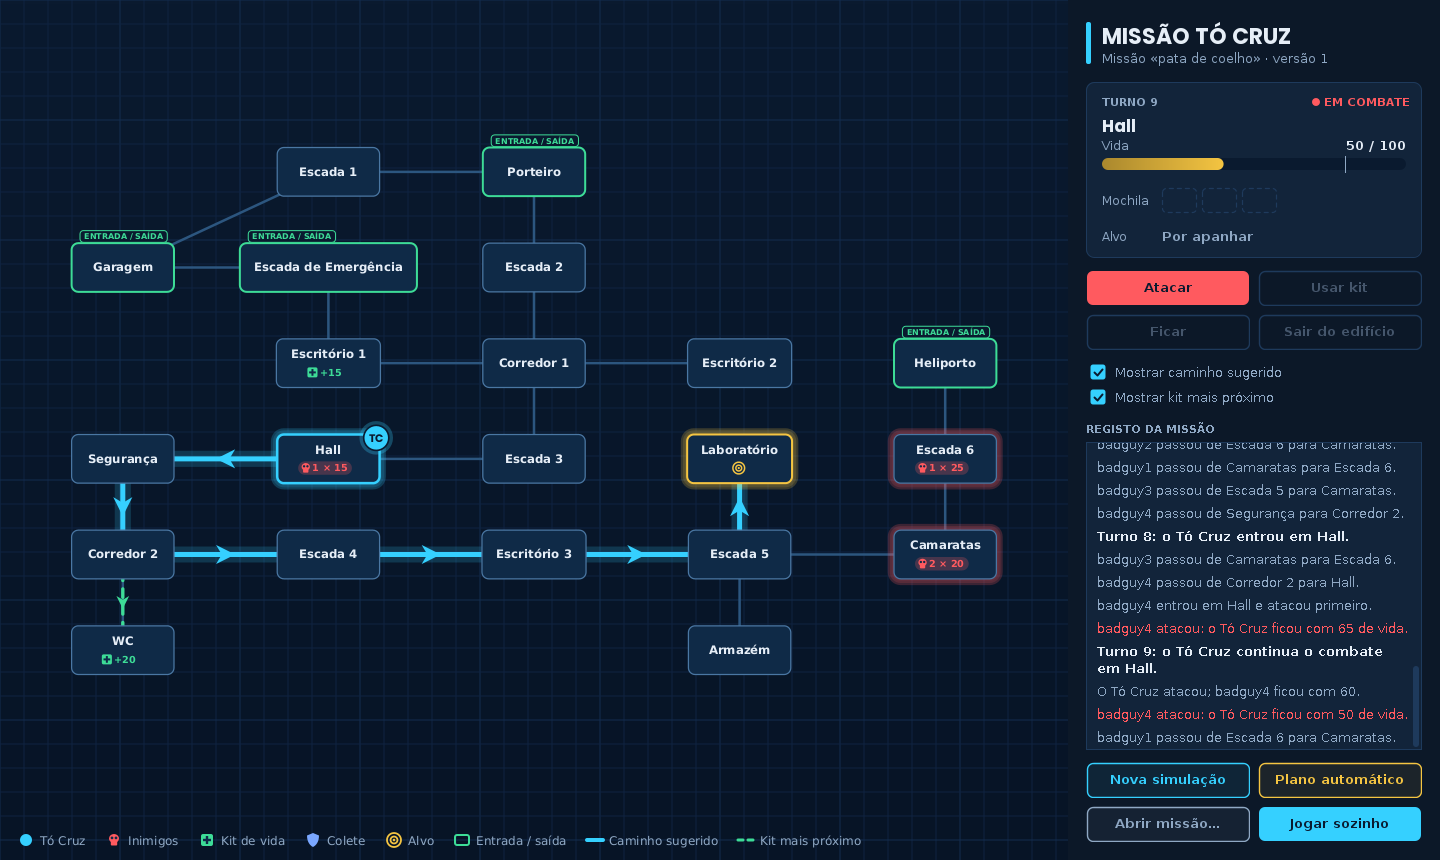
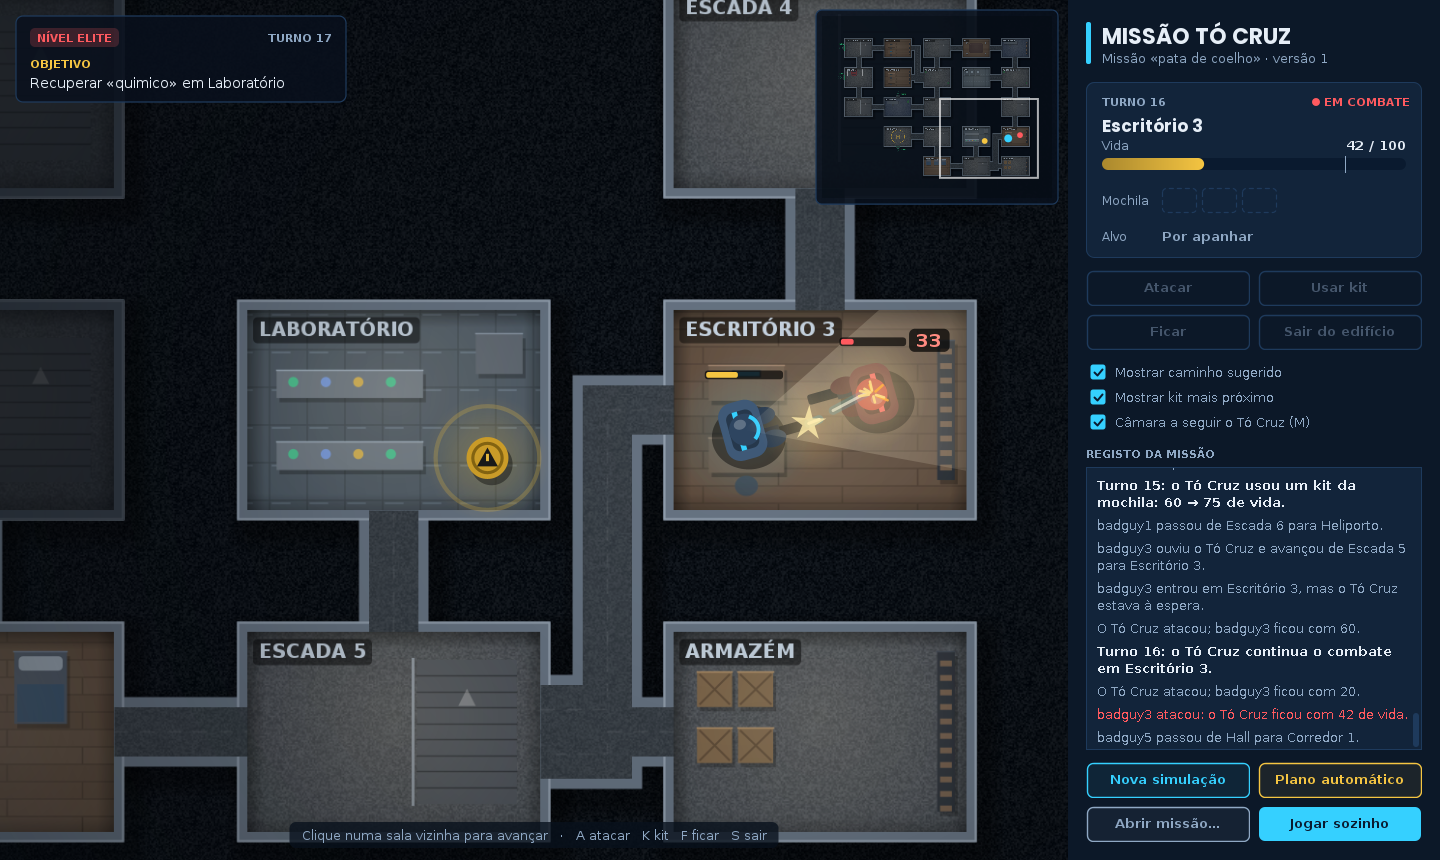
README: interface nova, níveis de dificuldade e regra do objetivo

diff --git a/README.md b/README.md
@@ -1,12 +1,12 @@
 # Missão Tó Cruz – simulador de incursões
 
-Simulador em Java onde o agente Tó Cruz entra num edifício controlado por criminosos, tem de chegar ao alvo (resgatar um refém, recuperar um objeto, desarmar uma arma) e sair com vida. O edifício é um grafo pesado e as decisões do modo automático são tomadas com o algoritmo de Dijkstra sobre esse grafo. Pode jogar-se na consola ou numa interface gráfica que mostra a planta do edifício.
+Simulador em Java onde o agente Tó Cruz entra num edifício controlado por criminosos, tem de chegar ao alvo (resgatar um refém, recuperar um objeto, desarmar uma arma) e sair com vida. O edifício é um grafo pesado e as decisões do modo automático são tomadas com o algoritmo de Dijkstra sobre esse grafo. Pode jogar-se na consola ou numa interface gráfica: uma planta tática vista de cima, com animações, três níveis de dificuldade e inimigos que perseguem o jogador.
 
 Trabalho prático de grupo de **Estruturas de Dados** (2.º ano da Licenciatura em Engenharia Informática, ESTG – Politécnico do Porto, 2024/25), revisto em 2026.
 
 [![CI](https://github.com/fmpoliveira05-jpg/missao-to-cruz/actions/workflows/ci.yml/badge.svg)](https://github.com/fmpoliveira05-jpg/missao-to-cruz/actions/workflows/ci.yml)
 
-![Interface gráfica: o Tó Cruz em combate no Hall, com o caminho mais seguro até ao laboratório a azul](docs/interface.png)
+![Interface gráfica, nível Elite: o Tó Cruz dispara sobre um inimigo no Escritório 3; ao lado, no laboratório, está o objetivo](docs/interface.png)
 
 ## Equipa
 
@@ -17,7 +17,7 @@ Trabalho prático de grupo de **Estruturas de Dados** (2.º ano da Licenciatura 
 
 O histórico de *commits* original foi mantido, por isso o contributo de cada um continua visível no separador *Commits*.
 
-**O meu papel:** na entrega trabalhei sobretudo na lógica da simulação (movimento e ataque dos inimigos, combate e uso de kits pelo Tó Cruz), no modo automático e na documentação Javadoc. Na revisão de 2026 reorganizei o projeto em Gradle multi-módulo, revi a escolha de cada estrutura de dados e corrigi as que estavam mal aplicadas, separei as regras do jogo da consola num motor com testes e fiz a interface gráfica.
+**O meu papel:** na entrega trabalhei sobretudo na lógica da simulação (movimento e ataque dos inimigos, combate e uso de kits pelo Tó Cruz), no modo automático e na documentação Javadoc. Na revisão de 2026 reorganizei o projeto em Gradle multi-módulo, revi a escolha de cada estrutura de dados e corrigi as que estavam mal aplicadas, separei as regras do jogo da consola num motor com testes e fiz a interface gráfica, com os níveis de dificuldade.
 
 ## O enunciado em poucas palavras
 
@@ -35,7 +35,15 @@ O enunciado proibia a Java Collections Framework: todas as coleções usadas sã
 
 ## Funcionalidades
 
-- **Interface gráfica** – a planta do edifício com os inimigos, os itens, o alvo e o Tó Cruz. Joga-se com o rato: clica-se numa entrada para entrar e numa divisão vizinha para avançar. Mostra o caminho mais seguro até ao objetivo e até ao kit mais próximo, o plano do modo automático e pode jogar sozinha, turno a turno.
+- **Interface gráfica** – planta tática vista de cima, com as salas mobiladas conforme o tipo (laboratório, garagem, heliporto, camaratas...).
+  - Os movimentos, os tiroteios, as quedas e as curas são animados. A câmara segue o Tó Cruz, com um minimapa do edifício.
+  - Joga-se com o rato (clicar numa entrada para entrar e numa sala vizinha para avançar) ou com o teclado.
+  - Mostra o caminho mais seguro até ao objetivo e até ao kit mais próximo, e o plano do modo automático. Também pode jogar sozinha.
+- **Três níveis de dificuldade:**
+  - **Recruta:** inimigos com metade do poder.
+  - **Agente:** as regras do enunciado.
+  - **Elite:** inimigos mais fortes que ouvem o Tó Cruz e vão ao encontro dele; salas fora de alcance às escuras; ao apanhar o objetivo dispara um alarme com os turnos contados para sair.
+- **Objetivo obrigatório** – a missão só é cumprida se o Tó Cruz apanhar o objetivo e sair com ele. Sair sem o objetivo, morrer ou (no nível Elite) deixar acabar o tempo do alarme é missão falhada.
 - **Importar missões** a partir de JSON, com validação completa do ficheiro (divisões inexistentes, campos em falta e valores inválidos são reportados com uma mensagem clara).
 - **Modo manual** na consola – escolhe-se a entrada e, turno a turno, o que o Tó Cruz faz entre as opções possíveis (mover, atacar, usar kit, ficar, sair). Em cada turno é sugerido o melhor caminho até ao objetivo e até ao kit mais próximo.
 - **Modo automático** – calcula, para todas as combinações de entrada e saída, o trajeto que termina com mais vida e diz se a missão é viável.
@@ -48,7 +56,7 @@ O enunciado proibia a Java Collections Framework: todas as coleções usadas sã
 |---|---|---|
 | Grafo pesado dirigido (`Network`, matriz de adjacência) | o edifício | O peso de uma ligação é o dano que o Tó Cruz sofre ao **entrar** na divisão de destino, por isso depende do sentido. Com 20 a 30 divisões a matriz é pequena e dá o peso de qualquer ligação em O(1). |
 | Fila de prioridade mínima (`PriorityQueue`, sobre `ArrayHeap`) | Dijkstra | Tira sempre a divisão ainda por fechar com menor distância acumulada. |
-| Fila (`LinkedQueue`) | pesquisa em largura limitada a 2 ligações; trajeto do Tó Cruz | A BFS visita por ordem de distância; o trajeto é lido pela ordem em que foi feito. |
+| Fila (`LinkedQueue`) | pesquisas em largura: zona de patrulha (até 2 ligações) e caminho de um inimigo até ao Tó Cruz (nível Elite); trajeto do Tó Cruz | A BFS visita por ordem de distância, por isso o primeiro caminho encontrado é o que tem menos ligações; o trajeto é lido pela ordem em que foi feito. |
 | Lista em vetor (`ArrayUnordered`) | divisões candidatas de cada inimigo; caminhos | O movimento escolhe uma candidata ao acaso, o que precisa de acesso por índice. |
 | Pilha (`LinkedStack`) | mochila | O enunciado manda usar sempre o último kit guardado. |
 | Lista ordenada (`LinearLinkedOrderedList`) | missões por código/versão; simulações por vida restante | Mantém a ordem à medida que se insere. |
@@ -60,15 +68,16 @@ A biblioteca da unidade curricular tem ainda listas duplamente ligadas, árvores
 
 ```
 estruturas-dados/   biblioteca de coleções (pacotes ed.*)                          145 testes
-jogo/               modelo, regras (tocruz.motor) e modos de jogo (tocruz.missoes)    69 testes
+jogo/               modelo, regras (tocruz.motor) e modos de jogo (tocruz.missoes)    80 testes
 app/                menu de consola; missoes/ tem o ficheiro de exemplo
-gui/                interface gráfica em Swing                                         3 testes
+gui/                interface gráfica em Swing                                         4 testes
 ```
 
 As regras estão todas em `tocruz.motor`, sem qualquer leitura ou escrita na consola:
 
-- `MotorJogo` recebe as ações do jogador e aplica as fases do turno;
-- `MovimentoInimigos` move os inimigos;
+- `MotorJogo` recebe as ações do jogador, aplica as fases do turno e regista cada acontecimento como `Evento` (que a interface anima);
+- `Dificuldade` define os três níveis;
+- `MovimentoInimigos` move os inimigos (patrulha ou perseguição);
 - `PlaneadorMissao` calcula o plano do modo automático;
 - `JogadorAutomatico` joga sozinho.
 
@@ -81,7 +90,7 @@ Requisitos: **Java 17** ou superior. Não é preciso instalar o Gradle, o *wrapp
 ```bash
 git clone https://github.com/fmpoliveira05-jpg/missao-to-cruz.git
 cd missao-to-cruz
-./gradlew build                      # compila e corre os 217 testes (no Windows: gradlew.bat build)
+./gradlew build                      # compila e corre os 229 testes (no Windows: gradlew.bat build)
 ./gradlew :gui:run                   # interface gráfica (abre a missão de exemplo)
 ./gradlew :app:run --console=plain   # versão de consola
 ```
@@ -96,11 +105,17 @@ cd app && java -jar build/libs/missao-to-cruz.jar
 
 ### Primeira partida (interface gráfica)
 
-1. As entradas têm contorno verde: clicar numa para o Tó Cruz entrar.
-2. A azul aparece o caminho que custa menos vida até ao alvo (dourado) e, a tracejado verde, o caminho até ao kit mais próximo. As divisões para onde se pode ir têm contorno tracejado; passar o rato por cima de uma divisão mostra os inimigos e o dano previsto.
-3. Numa divisão com inimigos só se pode **Atacar** ou **Usar kit**. Ao encontrar um kit escolhe-se usar, guardar ou deixar.
-4. Com o alvo apanhado, voltar a uma entrada e carregar em **Sair do edifício**.
-5. **Plano automático** desenha o plano do modo automático; **Jogar sozinho** põe o Tó Cruz a jogar turno a turno.
+![Escolha do nível de dificuldade](docs/niveis.png)
+
+1. Escolher o nível: **Recruta**, **Agente** ou **Elite**.
+2. As entradas piscam a verde: clicar numa para o Tó Cruz entrar.
+3. Clicar numa sala vizinha para avançar.
+   - As salas para onde se pode ir têm contorno tracejado.
+   - A azul aparece o caminho que custa menos vida até ao objetivo; a verde tracejado, o caminho até ao kit mais próximo.
+   - Passar o rato por cima de uma sala mostra os inimigos e o dano previsto.
+4. Numa sala com inimigos só se pode **Atacar** (tecla A) ou **Usar kit** (K). Ao encontrar um kit escolhe-se usar, guardar ou deixar (1, 2, 3). **F** fica onde está e **M** liga ou desliga a câmara que segue o Tó Cruz.
+5. Com o objetivo apanhado, voltar a uma entrada e carregar em **Sair do edifício** (S). No nível Elite o alarme conta os turnos que faltam.
+6. **Plano automático** desenha o plano do modo automático; **Jogar sozinho** põe o Tó Cruz a jogar turno a turno.
 
 ## O que mudou na revisão de 2026
 
@@ -126,6 +141,14 @@ cd app && java -jar build/libs/missao-to-cruz.jar
 ### Código e interface
 
 - **Motor separado da consola.** A classe `Simulacoes` tinha 1200 linhas com regras e perguntas ao jogador misturadas, sem testes possíveis. As regras passaram para `tocruz.motor`, com 23 testes novos, e a consola e a interface gráfica usam o mesmo motor.
-- **Interface gráfica nova.** A planta do edifício é desenhada numa grelha: a posição de cada divisão é escolhida por *simulated annealing*, para as ligações ficarem curtas, sem se cruzarem e sem passarem por cima de outras divisões.
+- **Interface gráfica nova.**
+  - A posição de cada sala numa grelha é escolhida por *simulated annealing*, para as ligações ficarem curtas, sem se cruzarem e sem passarem por cima de outras salas.
+  - Cada ligação vira um corredor reto, em "Z" ou em "L".
+  - Tudo é desenhado em código com Java2D, sem imagens de terceiros.
+  - As animações são geradas a partir dos eventos do motor, por isso mostram exatamente o que as regras decidiram.
+- **Níveis de dificuldade.**
+  - O nível Agente é o do enunciado (e o da consola).
+  - No nível Elite, a perseguição usa uma pesquisa em largura pelo caminho com menos ligações. O inimigo avança uma sala por turno e, sem alarme, não se afasta mais de três ligações da sua sala.
+  - Quem chega à sala do Tó Cruz cai numa emboscada. O alarme dá os turnos do caminho mais curto até à saída, mais três.
 - **Importação.** Passou a **validar** o ficheiro. Antes, uma divisão mal escrita causava um `NullPointerException` e um ficheiro inexistente dava uma missão `null`.
 - **Exportação e menu.** A exportação repetia versões e contava mal as simulações. O menu ganhou as opções "ver mapa" e "ver resultados" pedidas no enunciado.
